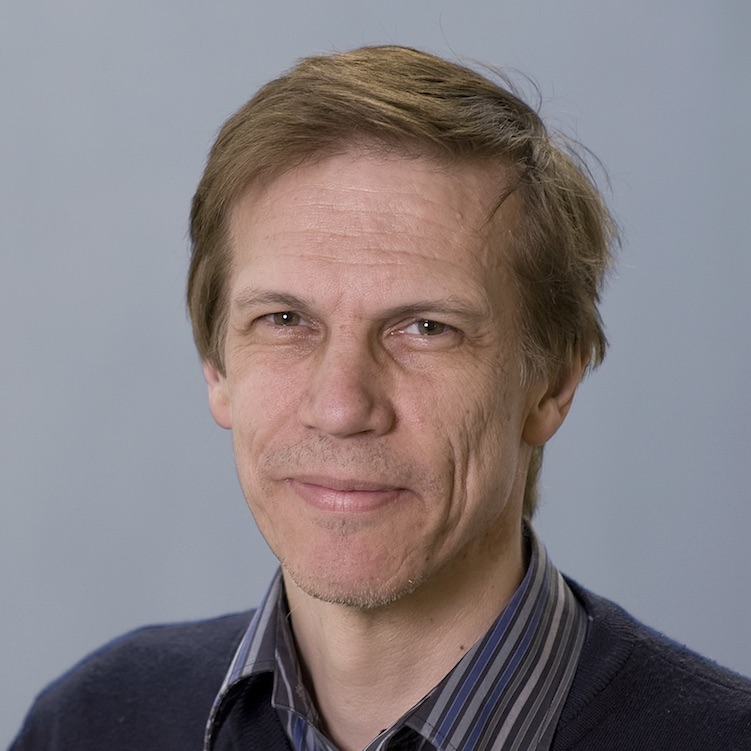
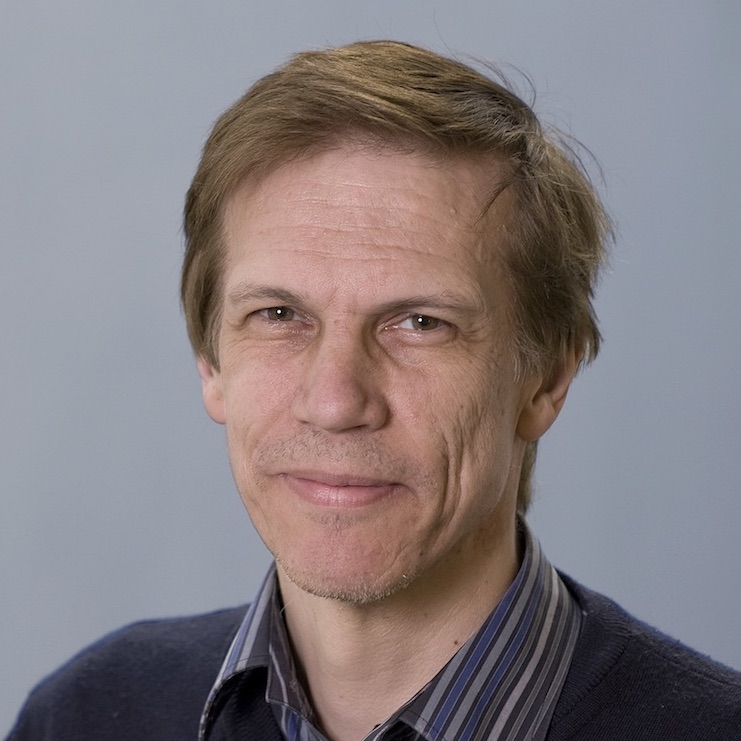
- Minor edits

diff --git a/challenge2017.html b/challenge2017.html
@@ -30,11 +30,11 @@
      
     img.roundimg{
       position:absolute;
-      top:50%;
-      left:50%;
-      min-width:100%;
-      height:100%;
-      transform:translate(-50%,-50%);
+      top:51%;
+      left:51%;
+      min-width:102%;
+      height:102%;
+      transform:translate(-51%,-51%);
       transition: all 0.5s ease;
     }
 
